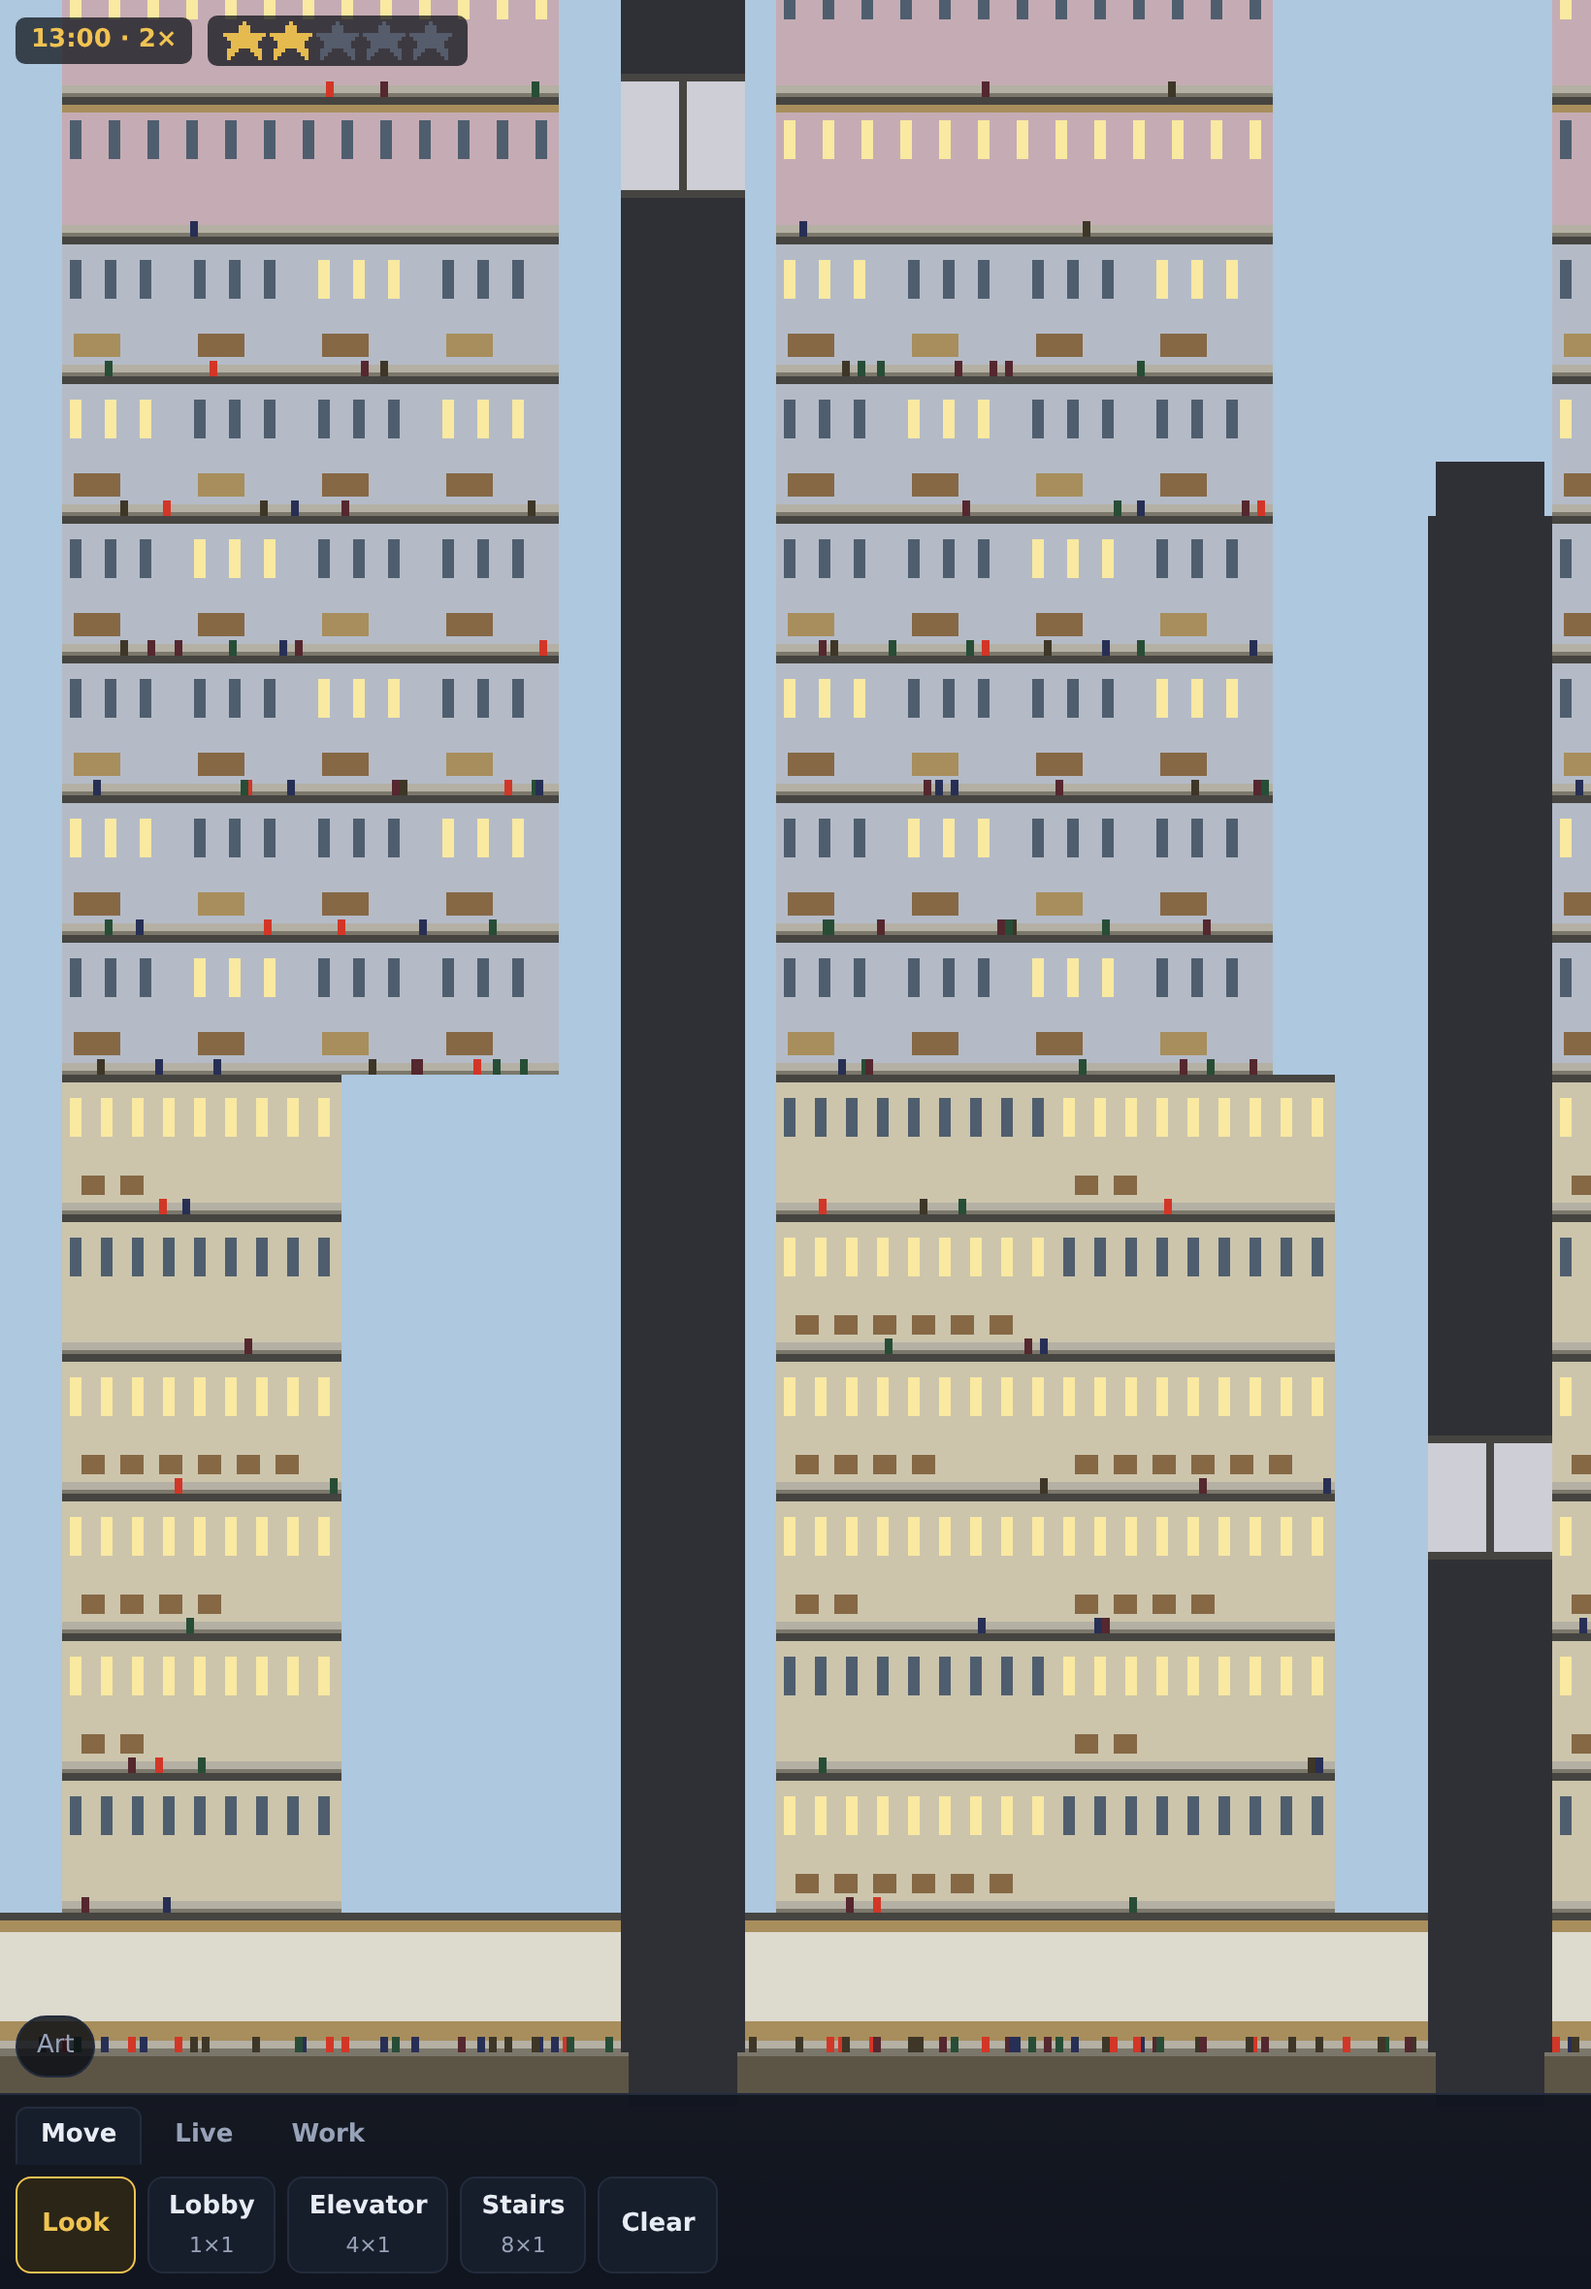
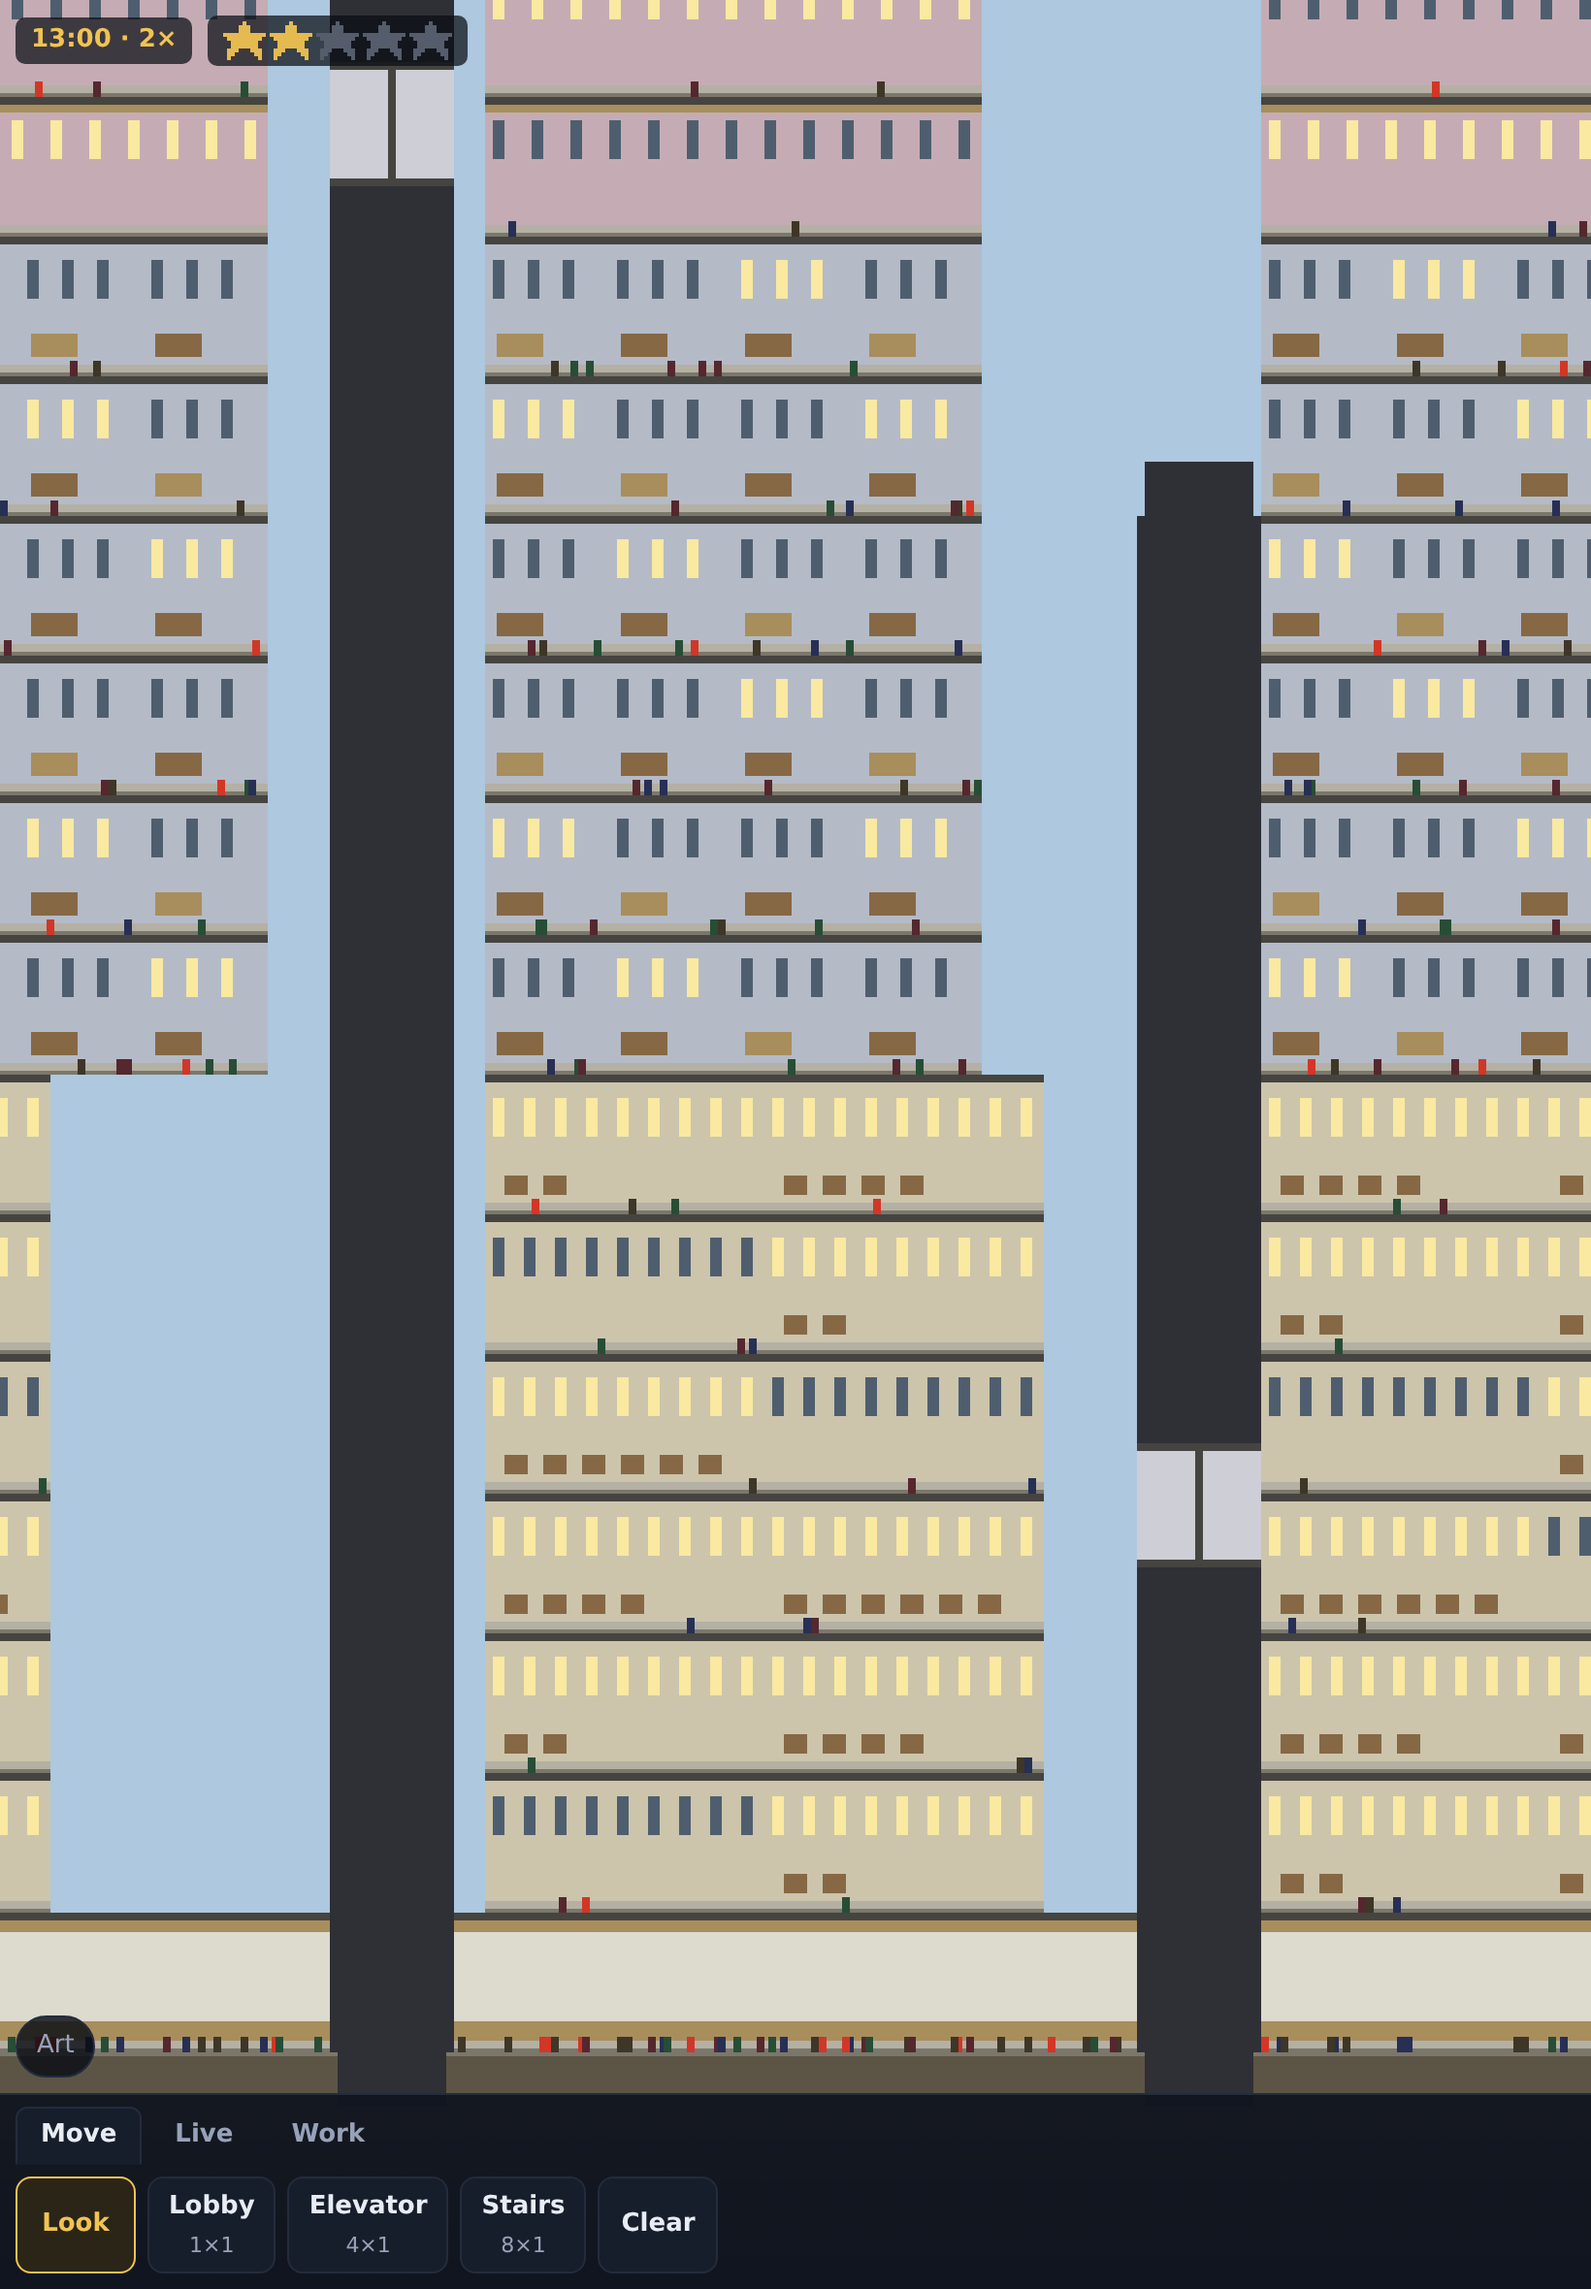
Widen the block to 192 segments, and stop leaving a hole in it
The art overruled the old ninety-six. SimTower's own chapel sheet is seventy
segments and its theatre is ninety-six — the whole block for one room. At a
hundred and ninety-two those have space to be big without being the entire
world, and the tower gets a street to stand in on both sides.

The demo tower's positions are now relative to where it stands rather than to
segment zero, so widening the block moved it to the middle instead of leaving
it pinned against the edge. The tests that named absolute segments follow the
same origin, which is what they meant all along.

Widening it exposed a hole that had been there all along. The ground is tiled
from a negative offset so the pattern stays put as you pan, but with the
screen's own width as the rectangle — so it stopped short of the right edge by
exactly that offset. Nothing clears the framebuffer between frames, so those
columns showed whatever was last in them, which on the first frame is zeroes,
which the palette resolves to the magenta that marks see-through. The old
camera position happened to sit on a multiple of eight and hid it.

The guard against it coming back is a test that no see-through pixel survives a
whole scene, run at five camera offsets. Reverting the fix fails four of them —
and passes the fifth, which is the point: one camera position would have proved
nothing.

Claude-Session: https://claude.ai/code/session_011ej4SEqe3EDyyAxnu4d6fi

diff --git a/vertical-empire/tests/render.test.ts b/vertical-empire/tests/render.test.ts
@@ -4,8 +4,16 @@ import { Framebuffer } from '../src/render/framebuffer.js';
 import { Camera, SCALES } from '../src/render/camera.js';
 import { buildFallbackAtlas, INK } from '../src/assets/fallback.js';
 import { drawScene } from '../src/render/scene.js';
-import { FLOOR_HEIGHT, GROUND_LEVEL, SEGMENT_WIDTH, WORLD_HEIGHT, WORLD_WIDTH, levelTop } from '../src/world/grid.js';
-import { Tower, demoTower } from '../src/world/tower.js';
+import {
+  FLOOR_HEIGHT,
+  GROUND_LEVEL,
+  LOT_SEGMENTS,
+  SEGMENT_WIDTH,
+  WORLD_HEIGHT,
+  WORLD_WIDTH,
+  levelTop,
+} from '../src/world/grid.js';
+import { DEMO_LEFT, Tower, demoTower } from '../src/world/tower.js';
 import type { IndexedImage } from '../src/assets/dib.js';
 
 function solid(width: number, height: number, ink: number): IndexedImage {
@@ -136,7 +144,7 @@ describe('drawing a tower', () => {
     const tower = demoTower();
     const camera = new Camera();
     camera.resize(390, 780);
-    camera.centreOn(SEGMENT_WIDTH * 12, levelTop(GROUND_LEVEL) + FLOOR_HEIGHT / 2);
+    camera.centreOn(SEGMENT_WIDTH * (DEMO_LEFT + 12), levelTop(GROUND_LEVEL) + FLOOR_HEIGHT / 2);
 
     const buffer = new Framebuffer(camera.viewWidth, camera.viewHeight);
     drawScene(buffer, atlas, tower, camera, { hour: 12, elapsed: 0 });
@@ -232,6 +240,41 @@ describe('short facades', () => {
     expect([...buffer.pixels.subarray(2 * 4, 3 * 4)]).toEqual([5, 5, 5, 5]);
     // One row asked for, one row written — the last row is untouched.
     expect([...buffer.pixels.subarray(3 * 4, 4 * 4)]).toEqual([1, 1, 1, 1]);
+  });
+});
+
+describe('every pixel gets painted', () => {
+  // The see-through index is never a colour anyone should see. If it survives
+  // to the framebuffer, something left a hole and the palette resolved it to
+  // the magenta that marks one.
+  const phases = [0, 1, 3, 5, 7];
+
+  it.each(phases)('leaves no hole at camera phase %i', (phase) => {
+    const atlas = buildFallbackAtlas();
+    const camera = new Camera();
+    camera.scale = 1;
+    camera.resize(390, 844);
+    // Off a segment boundary by `phase`, which is what the ground tiling has to
+    // cope with: shifted to stay put as you pan, and still reaching both edges.
+    camera.centreOn((LOT_SEGMENTS / 2) * SEGMENT_WIDTH + phase, levelTop(GROUND_LEVEL + 6));
+
+    const buffer = new Framebuffer(camera.viewWidth, camera.viewHeight);
+    drawScene(buffer, atlas, demoTower(), camera, { hour: 13, elapsed: 0 });
+
+    expect([...buffer.pixels].filter((ink) => ink === INK.transparent)).toHaveLength(0);
+  });
+
+  it('leaves no hole underground, where there is no sky to fall back on', () => {
+    const atlas = buildFallbackAtlas();
+    const camera = new Camera();
+    camera.scale = 1;
+    camera.resize(390, 844);
+    camera.centreOn(SEGMENT_WIDTH * 3, levelTop(GROUND_LEVEL - 5));
+
+    const buffer = new Framebuffer(camera.viewWidth, camera.viewHeight);
+    drawScene(buffer, atlas, demoTower(), camera, { hour: 13, elapsed: 0 });
+
+    expect([...buffer.pixels].filter((ink) => ink === INK.transparent)).toHaveLength(0);
   });
 });
 
@@ -382,7 +425,7 @@ describe('the town', () => {
     // street is what there is to see.
     camera.scale = 1;
     camera.resize(390, 780);
-    camera.centreOn(SEGMENT_WIDTH * 92, levelTop(GROUND_LEVEL));
+    camera.centreOn(SEGMENT_WIDTH * (DEMO_LEFT + 86), levelTop(GROUND_LEVEL));
 
     const buffer = new Framebuffer(camera.viewWidth, camera.viewHeight);
     drawScene(buffer, atlas, demoTower(), camera, { hour: 12, elapsed: 0 });

diff --git a/vertical-empire/src/world/tower.ts b/vertical-empire/src/world/tower.ts
@@ -122,31 +122,40 @@ export class Tower {
 /** How much of the block the demo tower occupies, leaving the rest as street. */
 const FRONTAGE = 70;
 
+/**
+ * Where its left edge sits, so it stands mid-block with street either side.
+ *
+ * Derived rather than written down: the lot has changed width once already and
+ * a tower pinned to segment zero ends up hard against the edge of a wider one.
+ */
+export const DEMO_LEFT = Math.floor((LOT_SEGMENTS - FRONTAGE) / 2);
+
 export function demoTower(): Tower {
   const tower = new Tower();
   const ground = 9; // level index of floor 1
+  const at = (segment: number): number => DEMO_LEFT + segment;
 
   // Transport goes down first. Lifts run *through* the lobby floor rather than
   // sitting beside it, so they have to claim their segments before the lobby
   // fills in around them.
-  tower.place('elevator', 20, ground, 16);
-  tower.place('elevator', 46, ground, 11);
-  tower.place('stairs', 44, ground, 3);
+  tower.place('elevator', at(20), ground, 16);
+  tower.place('elevator', at(46), ground, 11);
+  tower.place('stairs', at(44), ground, 3);
 
   // The lobby spans the tower's own frontage, not the whole block. SimTower
   // stands its tower in a town, and a lobby stretched across every segment
   // paves over the streetscape either side of it.
   for (let segment = 0; segment < FRONTAGE; segment += 1) {
-    tower.place('lobby', segment, ground);
+    tower.place('lobby', at(segment), ground);
   }
 
   // Offices low, hotel in the middle, condos with the view. Wings either side
   // of the lift spine, the way a real floorplate works out — and dense enough
   // that the tower has a silhouette rather than being a scatter of rooms.
   const wings: [number, number][] = [
-    [2, 18],
-    [25, 43],
-    [50, 68],
+    [at(2), at(18)],
+    [at(25), at(43)],
+    [at(50), at(68)],
   ];
 
   for (let level = ground + 1; level <= ground + 6; level += 1) {

diff --git a/vertical-empire/tests/world.test.ts b/vertical-empire/tests/world.test.ts
@@ -14,7 +14,7 @@ import {
   levelTop,
   segmentAtWorldX,
 } from '../src/world/grid.js';
-import { Tower, demoTower } from '../src/world/tower.js';
+import { DEMO_LEFT, Tower, demoTower } from '../src/world/tower.js';
 import { facility } from '../src/world/facilities.js';
 
 describe('the grid', () => {
@@ -114,8 +114,18 @@ describe('the demo tower', () => {
 
   it('lets the lifts through the lobby floor', () => {
     const tower = demoTower();
-    expect(tower.at(21, GROUND_LEVEL)?.id).toBe('elevator');
-    expect(tower.at(0, GROUND_LEVEL)?.id).toBe('lobby');
+    // Positions are relative to where the tower stands, not to the lot, so
+    // these keep holding when the block gets wider.
+    expect(tower.at(DEMO_LEFT + 21, GROUND_LEVEL)?.id).toBe('elevator');
+    expect(tower.at(DEMO_LEFT, GROUND_LEVEL)?.id).toBe('lobby');
+  });
+
+  it('stands mid-block, with street on both sides', () => {
+    const tower = demoTower();
+    expect(DEMO_LEFT).toBeGreaterThan(0);
+    // Nothing built at either edge of the lot: that is where the town shows.
+    expect(tower.at(0, GROUND_LEVEL)).toBeUndefined();
+    expect(tower.at(LOT_SEGMENTS - 1, GROUND_LEVEL)).toBeUndefined();
   });
 });
 

diff --git a/vertical-empire/src/world/grid.ts b/vertical-empire/src/world/grid.ts
@@ -16,14 +16,16 @@ export const LEVEL_COUNT = BASEMENT_LEVELS + TOWER_LEVELS;
 
 /**
  * The original lot is 375 segments wide. On a phone held upright you can see
- * about two dozen of them at a readable scale, so a lot that wide would be a
- * map you never see the edges of.
+ * about fifty of them at a readable scale, so a lot that wide would be a map
+ * you never see the edges of.
  *
- * Ninety-six is the working answer: four screens across at 2x, wide enough for
- * six offices side by side, narrow enough to grasp. Whether it is the *right*
- * answer is the question this spike exists to settle — change it, reload, look.
+ * Ninety-six was the first answer and the art overruled it: SimTower's own
+ * chapel sheet is seventy segments and its theatre is ninety-six — the whole
+ * block for one room. A hundred and ninety-two leaves those room to be big
+ * without being the entire world, and still reads as a place rather than a
+ * plain, at roughly four screens across.
  */
-export const LOT_SEGMENTS = 96;
+export const LOT_SEGMENTS = 192;
 
 export const WORLD_WIDTH = LOT_SEGMENTS * SEGMENT_WIDTH;
 export const WORLD_HEIGHT = LEVEL_COUNT * FLOOR_HEIGHT;

diff --git a/vertical-empire/src/render/scene.ts b/vertical-empire/src/render/scene.ts
@@ -77,7 +77,13 @@ function drawBackdrop(target: Framebuffer, atlas: Atlas, camera: Camera, groundY
   const top = Math.max(0, horizon);
   const ground = lookup(atlas, 'ground');
   if (ground) {
-    target.tile(ground.image, -mod(camera.x, ground.image.width), top, target.width, target.height - top);
+    // Shifted left so the pattern stays put as the camera pans — and made that
+    // much wider, or the rectangle stops short of the right edge by exactly the
+    // shift. Nothing clears the framebuffer between frames, so those columns
+    // kept whatever was last in them: on the first frame, zeroes, which the
+    // palette resolves to the see-through colour.
+    const phase = mod(camera.x, ground.image.width);
+    target.tile(ground.image, -phase, top, target.width + phase, target.height - top);
   } else {
     target.fillRect(0, top, target.width, target.height - top, INK.ground);
   }

diff --git a/vertical-empire/src/main.ts b/vertical-empire/src/main.ts
@@ -23,6 +23,7 @@ import { facility } from './world/facilities.js';
 import {
   FLOOR_HEIGHT,
   GROUND_LEVEL,
+  LOT_SEGMENTS,
   SEGMENT_WIDTH,
   floorLabel,
   levelAtWorldY,
@@ -316,7 +317,7 @@ resize();
 // half the screen is empty basement; a few floors up puts the lobby near the
 // bottom edge with the tower filling the rest, which is how the original framed
 // itself too.
-camera.centreOn(SEGMENT_WIDTH * 24, levelTop(GROUND_LEVEL + 6) + FLOOR_HEIGHT / 2);
+camera.centreOn((LOT_SEGMENTS / 2) * SEGMENT_WIDTH, levelTop(GROUND_LEVEL + 6) + FLOOR_HEIGHT / 2);
 gestures.onChange(() => {
   /* the loop redraws every frame; nothing to do but keep the camera honest */
 });
